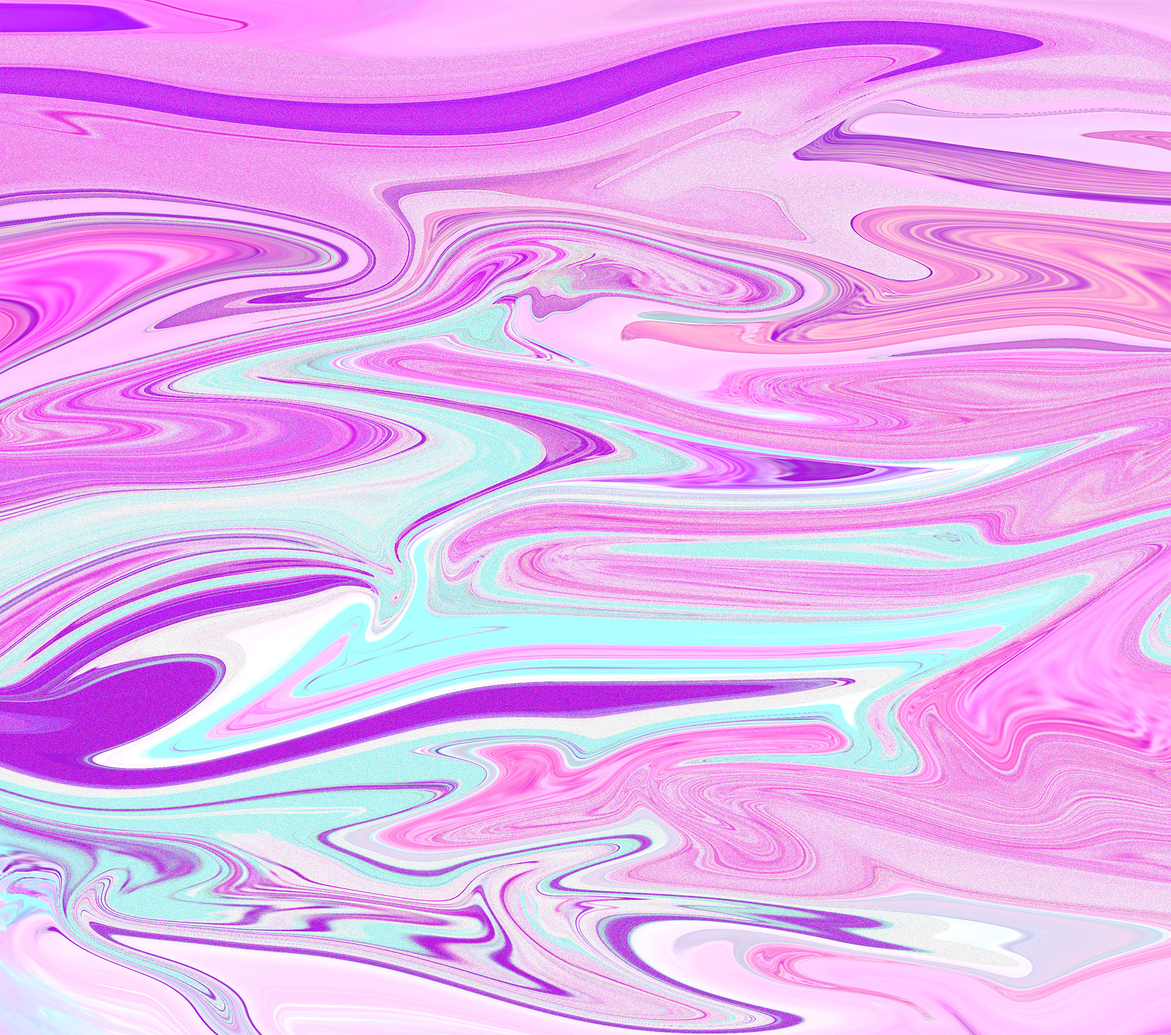
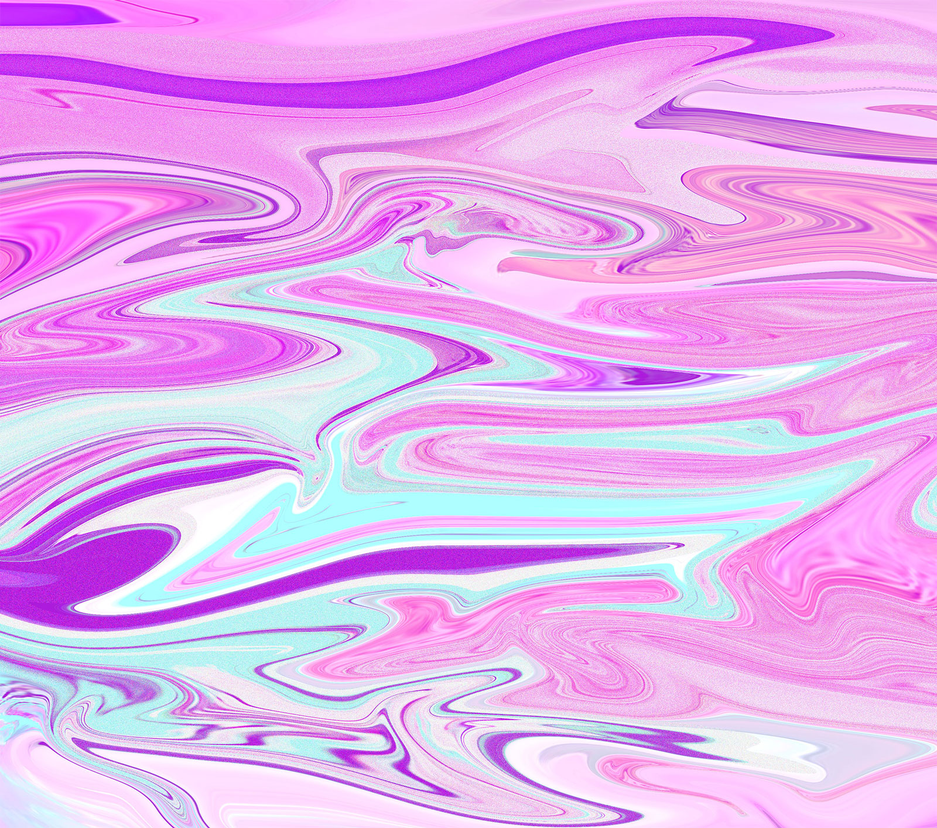
Optimise images

diff --git a/style.css b/style.css
@@ -395,7 +395,7 @@ h1 p { margin: 0; }
 
 nav.post-navigation { display: none; }
 
-#spill-city-splash { position: relative; display: -webkit-flex; display: -ms-flex; display: flex; -webkit-align-items: center; -moz-align-items: center; -ms-align-items: center; align-items: center; -webkit-justify-content: center; -moz-justify-content: center; -ms-justify-content: center; justify-content: center; overflow: hidden; width: 100vw; height: 100vh; background-color: #f4d5ff; }
+#spill-city-splash { position: relative; display: -webkit-flex; display: -ms-flex; display: flex; -webkit-align-items: center; -moz-align-items: center; -ms-align-items: center; align-items: center; -webkit-justify-content: center; -moz-justify-content: center; -ms-justify-content: center; justify-content: center; overflow: hidden; width: 100vw; height: 100vh; background-color: #f4d5ff; background-image: url("/wp-content/themes/spillcity/media/spill-full-01@2x.jpg"); background-size: cover; }
 
 #spill-city-splash .spill-city-splash-logo { position: relative; z-index: 1; }
 

diff --git a/sass/style.scss b/sass/style.scss
@@ -287,6 +287,8 @@ nav.post-navigation {
   width: 100vw;
   height: 100vh;
   background-color: $purple-pale;
+  background-image: url('/wp-content/themes/spillcity/media/spill-full-01@2x.jpg');
+  background-size: cover;
 
   .spill-city-splash-logo {
     position: relative;
